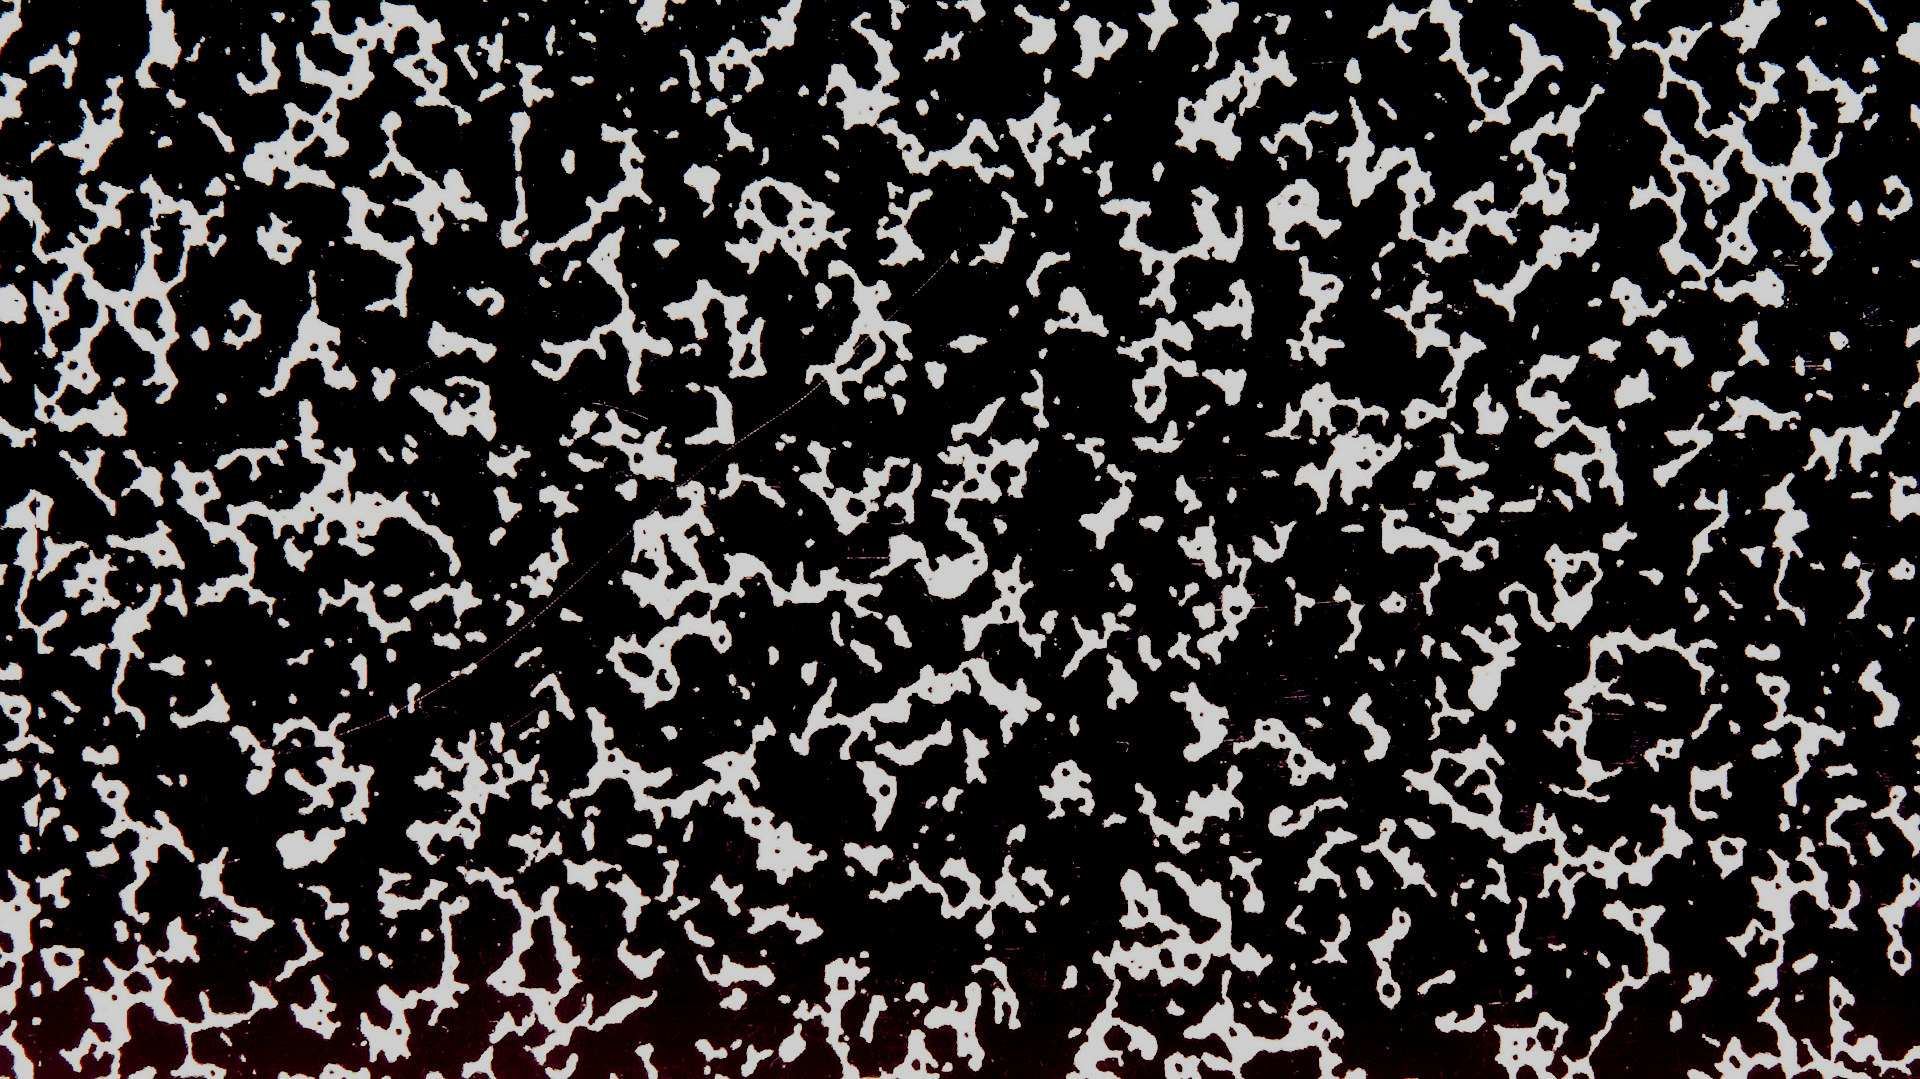
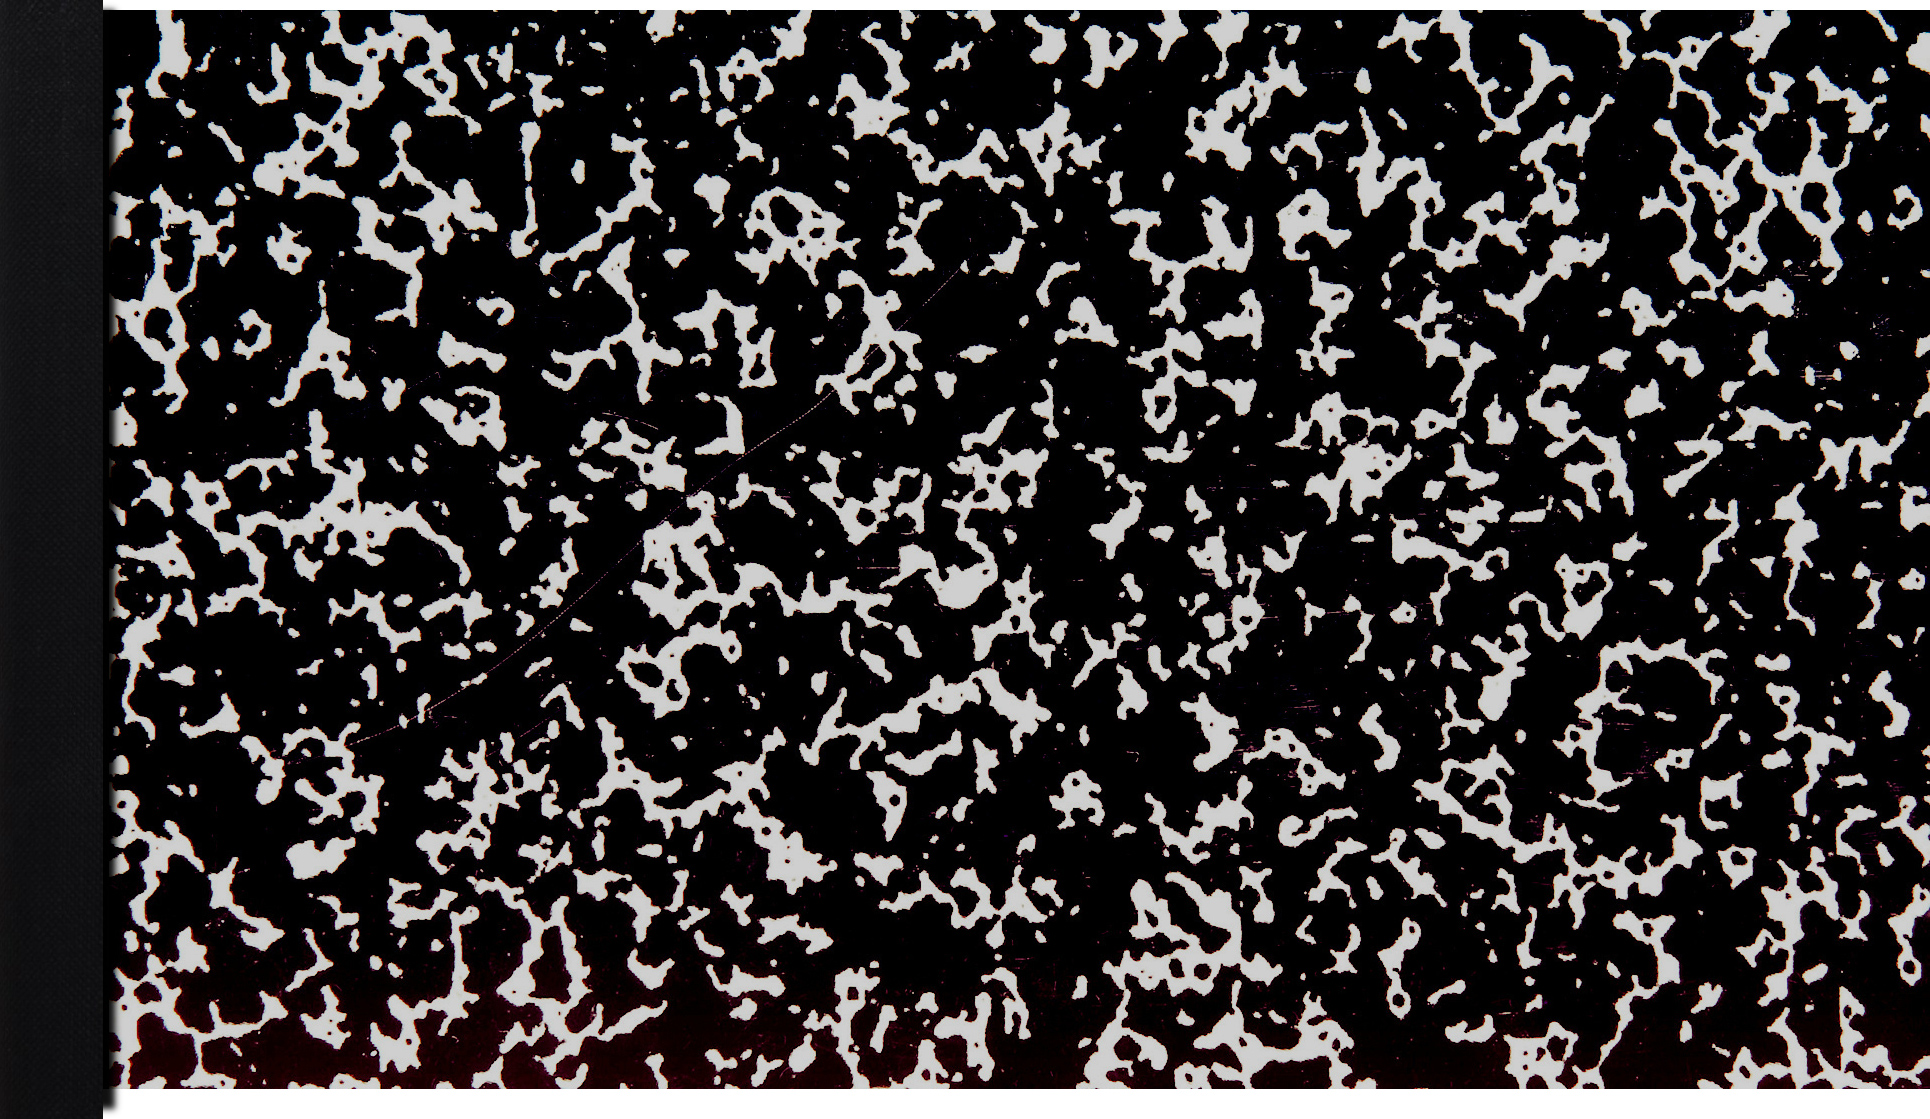
PLACEHOLDER for about us button, spine complete, NEED: toggle for mentor/students, EDIT MARGINS

diff --git a/public/css/landing.css b/public/css/landing.css
@@ -90,5 +90,10 @@ select:focus {
   outline: 0; 
 }
 
-
+.spine{
+    position: absolute;
+    left: 0px;
+    top: 0px;
+	overflow: hidden;
+}
 

diff --git a/app/views/login.blade.php b/app/views/login.blade.php
@@ -2,10 +2,11 @@
 	@section('content')
 		<body id="landingBody">
 			<div class="container"> 
+
 				<div class="whiteBox">			
+					<legend> img_AU </legend>
 					<div class="title"> programmerPrep</div>
 					<p class="definition"> Connecting aspiring Jr. Developers to Mentors in the industry</p>
-
 					<!-- login -->
 					<form method="POST" id="signupForm">
 						<input id="username" name="username" type="text" Placeholder="username"><br>
@@ -21,7 +22,6 @@
 		          	</form>         
 		        </div>
 			</div>
-
 		</body>
 		          	 <!-- you need to add the spine (absolute 0 0 )  -->
 
@@ -35,4 +35,8 @@
 		});
 		</script>
 @stop
+
+
+
+
 
